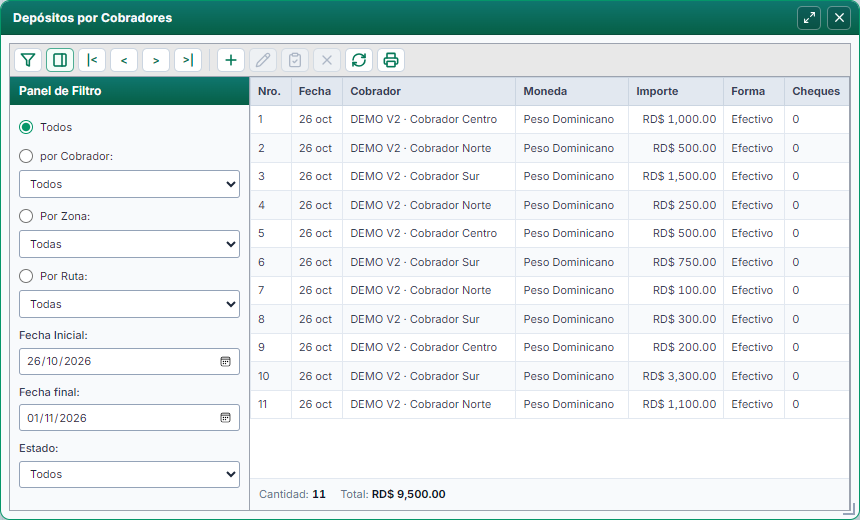
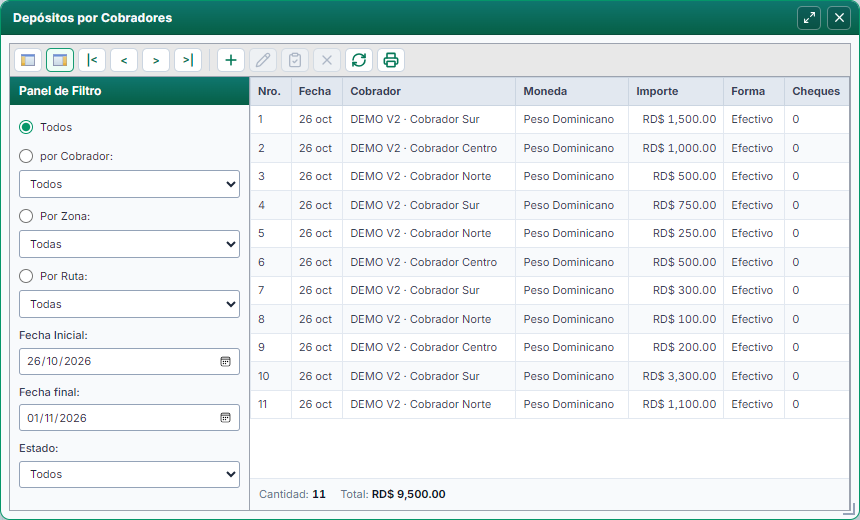
Iconos de Dionel para los paneles de las ventanas de listado
- «Mostrar/Ocultar filtros»: ventana con barra azul y panel amarillo a la izquierda (en lugar del embudo).
- «Mostrar/Ocultar detalles» de Depósitos: el mismo con el panel a la derecha.
- Redibujados como SVG (app/client-admin/src/PanelIcons.tsx); los originales son mapas de bits sobre el morado que el programa viejo usaba como transparente.
- Informe y capturas actualizados; prueba de la revisión ajustada.

diff --git a/app/client-admin/src/App.tsx b/app/client-admin/src/App.tsx
@@ -3,6 +3,7 @@ import { lazy, Suspense } from "react";
 const FinancialMonitorView = lazy(() => import("./FinancialMonitorView"));
 import { monitorLedger } from "./monitorLedger";
 import { MIN_NEW_PASSWORD_LENGTH } from "../../shared/passwordPolicy.mjs";
+import { DetailsPanelIcon, FiltersPanelIcon } from "./PanelIcons";
 import { CLIENT_PAGE_SIZE, NOT_DEFINED, NOT_DEFINED_ROUTE, type ClientPage, type ClientPageStatus } from "../../shared/clientPage.mjs";
 import {
   isValidElement,
@@ -44,7 +45,6 @@ import {
   Printer,
   FolderOpen,
   KeyRound,
-  Filter as Funnel,
   LayoutDashboard,
   ListFilter,
   LoaderCircle,
@@ -67,7 +67,6 @@ import {
   Users,
   Wallet,
   X,
-  PanelRight,
 } from "lucide-react";
 import { createPortal } from "react-dom";
 import { Toaster, toast } from "sonner";
@@ -906,9 +905,9 @@ function LegacyToolbar({ onToggleFilters, filtersVisible = true, onToggleDetails
   disableAccept ||= !access.canAccept;
   return (
     <div className="legacy-mdi-toolbar" aria-label="Barra de herramientas legacy" onMouseDown={stopToolbarEvent} onClick={stopToolbarEvent}>
-      {onToggleFilters && <button type="button" className={filtersVisible ? "nav-tool active" : "nav-tool"} title="Mostrar/Ocultar filtros" aria-label="Mostrar/Ocultar filtros" aria-pressed={filtersVisible} onClick={runToolbarAction(onToggleFilters)}><Funnel size={15} aria-hidden="true" /></button>}
+      {onToggleFilters && <button type="button" className={filtersVisible ? "nav-tool active" : "nav-tool"} title="Mostrar/Ocultar filtros" aria-label="Mostrar/Ocultar filtros" aria-pressed={filtersVisible} onClick={runToolbarAction(onToggleFilters)}><FiltersPanelIcon /></button>}
       {/* Windows with a details panel on the right hide it with its own button (Dionel, 26-10). */}
-      {onToggleDetails && <button type="button" className={detailsVisible ? "nav-tool active" : "nav-tool"} title="Mostrar/Ocultar detalles" aria-label="Mostrar/Ocultar detalles" aria-pressed={detailsVisible} onClick={runToolbarAction(onToggleDetails)}><PanelRight size={15} aria-hidden="true" /></button>}
+      {onToggleDetails && <button type="button" className={detailsVisible ? "nav-tool active" : "nav-tool"} title="Mostrar/Ocultar detalles" aria-label="Mostrar/Ocultar detalles" aria-pressed={detailsVisible} onClick={runToolbarAction(onToggleDetails)}><DetailsPanelIcon /></button>}
       <button type="button" className="nav-tool" title="Mover al inicio" onClick={runToolbarAction(onFirst)}>|&lt;</button>
       <button type="button" className="nav-tool" title="Subir" onClick={runToolbarAction(onPrevious)}>&lt;</button>
       <button type="button" className="nav-tool" title="Bajar" onClick={runToolbarAction(onNext)}>&gt;</button>
@@ -2271,7 +2270,7 @@ function SessionToolbar({ filtersVisible, selectedSession, onToggleFilters, onFi
   const action = (handler: () => void) => (event: ReactMouseEvent<HTMLButtonElement>) => { event.stopPropagation(); handler(); };
   return (
     <div className="legacy-mdi-toolbar session-toolbar" aria-label="Barra de herramientas de sesiones" onMouseDown={stopToolbarEvent} onClick={stopToolbarEvent}>
-      <button type="button" className={filtersVisible ? "nav-tool active" : "nav-tool"} title="Mostrar/Ocultar filtros" aria-label="Mostrar/Ocultar filtros" aria-pressed={filtersVisible} onClick={action(onToggleFilters)}><Funnel size={15} aria-hidden="true" /></button>
+      <button type="button" className={filtersVisible ? "nav-tool active" : "nav-tool"} title="Mostrar/Ocultar filtros" aria-label="Mostrar/Ocultar filtros" aria-pressed={filtersVisible} onClick={action(onToggleFilters)}><FiltersPanelIcon /></button>
       <button type="button" className="nav-tool" title="Mover al inicio" onClick={action(onFirst)}>|&lt;</button>
       <button type="button" className="nav-tool" title="Subir" onClick={action(onPrevious)}>&lt;</button>
       <button type="button" className="nav-tool" title="Bajar" onClick={action(onNext)}>&gt;</button>
@@ -2737,7 +2736,7 @@ function ClientToolbar({ filtersVisible, onToggleFilters, canGoBack, canGoForwar
   const action = (handler: () => void) => (event: ReactMouseEvent<HTMLButtonElement>) => { event.stopPropagation(); handler(); };
   return (
     <div className="legacy-mdi-toolbar clients-toolbar" aria-label="Barra de herramientas de clientes" onMouseDown={stopToolbarEvent} onClick={stopToolbarEvent}>
-      <button type="button" className={filtersVisible ? "nav-tool active" : "nav-tool"} title="Mostrar/Ocultar filtros" aria-label="Mostrar/Ocultar filtros" aria-pressed={filtersVisible} onClick={action(onToggleFilters)}><Funnel size={15} aria-hidden="true" /></button>
+      <button type="button" className={filtersVisible ? "nav-tool active" : "nav-tool"} title="Mostrar/Ocultar filtros" aria-label="Mostrar/Ocultar filtros" aria-pressed={filtersVisible} onClick={action(onToggleFilters)}><FiltersPanelIcon /></button>
       {/* The list arrives in pages: these buttons move between them. */}
       <button type="button" className="nav-tool" title="Primera página" aria-label="Primera página" disabled={!canGoBack} onClick={action(onFirst)}>|&lt;</button>
       <button type="button" className="nav-tool" title="Página anterior" aria-label="Página anterior" disabled={!canGoBack} onClick={action(onPrevious)}>&lt;</button>
@@ -2999,7 +2998,7 @@ function AuthorizationToolbar({ filtersVisible, onToggleFilters, onFirst, onPrev
   const action = (handler: () => void) => (event: ReactMouseEvent<HTMLButtonElement>) => { event.stopPropagation(); handler(); };
   return (
     <div className="legacy-mdi-toolbar authorization-toolbar" aria-label="Barra de herramientas de solicitudes" onMouseDown={stopToolbarEvent} onClick={stopToolbarEvent}>
-      <button type="button" className={filtersVisible ? "nav-tool active" : "nav-tool"} title="Mostrar/Ocultar filtros" aria-label="Mostrar/Ocultar filtros" aria-pressed={filtersVisible} onClick={action(onToggleFilters)}><Funnel size={15} aria-hidden="true" /></button>
+      <button type="button" className={filtersVisible ? "nav-tool active" : "nav-tool"} title="Mostrar/Ocultar filtros" aria-label="Mostrar/Ocultar filtros" aria-pressed={filtersVisible} onClick={action(onToggleFilters)}><FiltersPanelIcon /></button>
       <button type="button" className="nav-tool" title="Mover al inicio" onClick={action(onFirst)}>|&lt;</button>
       <button type="button" className="nav-tool" title="Subir" onClick={action(onPrevious)}>&lt;</button>
       <button type="button" className="nav-tool" title="Bajar" onClick={action(onNext)}>&gt;</button>
@@ -3524,7 +3523,7 @@ function TraceToolbar({ filtersVisible, onToggleFilters, onFirst, onPrevious, on
   const action = (handler: () => void) => (event: ReactMouseEvent<HTMLButtonElement>) => { event.stopPropagation(); handler(); };
   return (
     <div className="legacy-mdi-toolbar traces-toolbar" aria-label="Barra de herramientas de trazas" onMouseDown={stopToolbarEvent} onClick={stopToolbarEvent}>
-      <button type="button" className={filtersVisible ? "nav-tool active" : "nav-tool"} title="Mostrar/Ocultar filtros" aria-label="Mostrar/Ocultar filtros" aria-pressed={filtersVisible} onClick={action(onToggleFilters)}><Funnel size={15} aria-hidden="true" /></button>
+      <button type="button" className={filtersVisible ? "nav-tool active" : "nav-tool"} title="Mostrar/Ocultar filtros" aria-label="Mostrar/Ocultar filtros" aria-pressed={filtersVisible} onClick={action(onToggleFilters)}><FiltersPanelIcon /></button>
       <button type="button" className="nav-tool" title="Mover al inicio" onClick={action(onFirst)}>|&lt;</button>
       <button type="button" className="nav-tool" title="Subir" onClick={action(onPrevious)}>&lt;</button>
       <button type="button" className="nav-tool" title="Bajar" onClick={action(onNext)}>&gt;</button>
@@ -3960,7 +3959,7 @@ function PcpToolbar({ filtersVisible, selectedPcp, onToggleFilters, onFirst, onP
   const action = (handler: () => void) => (event: ReactMouseEvent<HTMLButtonElement>) => { event.stopPropagation(); handler(); };
   return (
     <div className="legacy-mdi-toolbar pcp-toolbar" aria-label="Barra de herramientas de PCP" onMouseDown={stopToolbarEvent} onClick={stopToolbarEvent}>
-      <button type="button" className={filtersVisible ? "nav-tool active" : "nav-tool"} title="Mostrar/Ocultar filtros" aria-label="Mostrar/Ocultar filtros" aria-pressed={filtersVisible} onClick={action(onToggleFilters)}><Funnel size={15} aria-hidden="true" /></button>
+      <button type="button" className={filtersVisible ? "nav-tool active" : "nav-tool"} title="Mostrar/Ocultar filtros" aria-label="Mostrar/Ocultar filtros" aria-pressed={filtersVisible} onClick={action(onToggleFilters)}><FiltersPanelIcon /></button>
       <button type="button" className="nav-tool" title="Mover al inicio" onClick={action(onFirst)}>|&lt;</button>
       <button type="button" className="nav-tool" title="Subir" onClick={action(onPrevious)}>&lt;</button>
       <button type="button" className="nav-tool" title="Bajar" onClick={action(onNext)}>&gt;</button>

diff --git a/app/client-admin/src/ConnectedAdminTools.tsx b/app/client-admin/src/ConnectedAdminTools.tsx
@@ -1,6 +1,7 @@
 import { PermissionAuditDetails } from "./PermissionAuditDetails";
 import { useCallback, useEffect, useId, useMemo, useRef, useState, type FormEvent, type ReactNode } from "react";
-import { Building2, FileCheck2, Filter as Funnel, RefreshCw } from "lucide-react";
+import { Building2, FileCheck2, RefreshCw } from "lucide-react";
+import { FiltersPanelIcon } from "./PanelIcons";
 import { LegacyCheck, LegacyDenseTable, LegacyDialog, LegacyToolbar, handleKeyboardActivation } from "./LegacyConnectedUi";
 import { clearToken } from "./api";
 import { remittancesApi } from "./remittancesApi";
@@ -273,7 +274,7 @@ export function ConnectedAdminTools({ page, snapshot, user, onRefresh }: { page:
   };
   const toolbar = page === "sessions" || page === "traces"
     ? <div className={"legacy-mdi-toolbar " + (page === "sessions" ? "session-toolbar" : "traces-toolbar")} aria-label="Barra de herramientas" onMouseDown={(event) => event.stopPropagation()} onClick={(event) => event.stopPropagation()}>
-      <button type="button" className={filtersVisible ? "nav-tool active" : "nav-tool"} title="Mostrar/Ocultar filtros" aria-label="Mostrar/Ocultar filtros" aria-pressed={filtersVisible} onClick={() => setFiltersVisible((current) => !current)}><Funnel size={15} aria-hidden="true" /></button>
+      <button type="button" className={filtersVisible ? "nav-tool active" : "nav-tool"} title="Mostrar/Ocultar filtros" aria-label="Mostrar/Ocultar filtros" aria-pressed={filtersVisible} onClick={() => setFiltersVisible((current) => !current)}><FiltersPanelIcon /></button>
       <button type="button" className="nav-tool" title="Primer registro" disabled={loading || !selected} onClick={() => moveSelection("first")}>|&lt;</button><button type="button" className="nav-tool" title="Registro anterior" disabled={loading || !selected} onClick={() => moveSelection("previous")}>&lt;</button><button type="button" className="nav-tool" title="Registro siguiente" disabled={loading || !selected} onClick={() => moveSelection("next")}>&gt;</button><button type="button" className="nav-tool" title="Último registro" disabled={loading || !selected} onClick={() => moveSelection("last")}>&gt;|</button>
       <span className="mdi-toolbar-separator" />
       {page === "sessions" && <button type="button" title={selected?.current ? "Cerrar mi sesión" : "Cerrar sesión"} disabled={loading || selected?.status !== "active" || !access.canDelete} onClick={() => selected && open({ type: "confirm", row: selected, action: "close" })}><FileCheck2 size={15} /><span>×</span></button>}

diff --git a/app/client-admin/test/revision-dionel-ui.test.ts b/app/client-admin/test/revision-dionel-ui.test.ts
@@ -90,7 +90,7 @@ test("Dionel's review (26-10): header, double click, funnel, paged Clientes, «N
       const frame = page.getByRole("dialog", { name: window, exact: true }); await frame.waitFor(); return frame;
     };
     const shot = (name: string) => page.screenshot({ path: path.join(output, `${name}.png`) });
-    const filterIcon = (frame: any) => frame.getByRole("button", { name: "Mostrar/Ocultar filtros", exact: true }).first().locator("svg").getAttribute("class");
+    const filterIcon = (frame: any) => frame.getByRole("button", { name: "Mostrar/Ocultar filtros", exact: true }).first().locator("svg").getAttribute("data-icon");
 
     await t.test("1.1 and 1.2: Facturas and Pagos together; no backup button", async () => {
       await reset();
@@ -184,15 +184,17 @@ test("Dionel's review (26-10): header, double click, funnel, paged Clientes, «N
       }
     });
 
-    await t.test("2.2: a funnel shows and hides the filters; Depósitos hides its details panel too", async () => {
+    await t.test("2.2: Dionel's panel icons show and hide the filters; Depósitos hides its details panel too", async () => {
       for (const [option, window] of [["Clientes", "Clientes"], ["Cargos", "Cargos"], ["Cobros", "Cobros"], ["Depósitos por Cobradores", "Depósitos por Cobradores"]]) {
         const frame = await openNav(option, window);
-        assert.match(String(await filterIcon(frame)), /lucide-filter/, option);
+        assert.equal(await filterIcon(frame), "panel-filtros", option);
+        assert.equal(await frame.locator(".lucide-filter").count(), 0, option);
         assert.equal(await frame.locator(".lucide-key-round").count(), 0, option);
       }
       const deposits = await openNav("Depósitos por Cobradores", "Depósitos por Cobradores");
       const details = deposits.getByRole("complementary", { name: "Panel de detalles", exact: true });
       await details.waitFor();
+      assert.equal(await deposits.getByRole("button", { name: "Mostrar/Ocultar detalles", exact: true }).locator("svg").getAttribute("data-icon"), "panel-detalles");
       await deposits.getByRole("button", { name: "Mostrar/Ocultar detalles", exact: true }).click();
       await details.waitFor({ state: "detached" });
       await deposits.getByRole("button", { name: "Mostrar/Ocultar filtros", exact: true }).click();

diff --git a/app/client-admin/src/PanelIcons.tsx b/app/client-admin/src/PanelIcons.tsx
@@ -1,0 +1,42 @@
+import { useId } from "react";
+
+// Dionel's icons for the panels of a listing window (sent 26-10-2026): a window with its blue title bar and a
+// yellow panel on the left (filters) or on the right (details). Drawn here as SVG so they stay sharp at any size;
+// the originals are 32×32 bitmaps on the magenta that the old program used as transparent.
+type PanelSide = "left" | "right";
+
+function ListingPanelIcon({ side, size = 16, name }: Readonly<{ side: PanelSide; size?: number; name: string }>) {
+  const id = useId().replace(/:/g, "");
+  const panelX = side === "left" ? 3 : 22;
+  const dividerX = side === "left" ? 10.5 : 21.5;
+  return (
+    <svg className={`cyp-panel-icon cyp-panel-icon-${name}`} data-icon={name} width={size} height={size} viewBox="0 0 32 32" aria-hidden="true" focusable="false">
+      <defs>
+        <linearGradient id={`${id}-body`} x1="0" y1="0" x2="0" y2="1">
+          <stop offset="0" stopColor="#f2f7fb" />
+          <stop offset="1" stopColor="#c6d6e3" />
+        </linearGradient>
+        <linearGradient id={`${id}-panel`} x1="0" y1="0" x2="0" y2="1">
+          <stop offset="0" stopColor="#f6d77c" />
+          <stop offset="1" stopColor="#e8ac2e" />
+        </linearGradient>
+      </defs>
+      <rect x="2.5" y="4.5" width="27" height="23" rx="2" fill={`url(#${id}-body)`} stroke="#4c4f7d" strokeWidth="1" />
+      <rect x="3" y="5" width="26" height="4" rx="1" fill="#5f86d1" />
+      <rect x="3" y="5" width="26" height="1.2" fill="#9db6ec" />
+      <rect x={panelX} y="9" width="7" height="18" fill={`url(#${id}-panel)`} />
+      {[11, 15, 19].map((y) => <rect key={y} x={panelX + 0.8} y={y} width="5.4" height="2" rx="0.5" fill="#fcecb8" stroke="#d9a73c" strokeWidth="0.5" />)}
+      <line x1={dividerX} y1="9" x2={dividerX} y2="27" stroke="#9aa6b5" strokeWidth="1" />
+    </svg>
+  );
+}
+
+/** «Mostrar/Ocultar filtros» of a listing window. */
+export function FiltersPanelIcon({ size }: Readonly<{ size?: number }>) {
+  return <ListingPanelIcon side="left" size={size} name="panel-filtros" />;
+}
+
+/** «Mostrar/Ocultar detalles» of a listing window. */
+export function DetailsPanelIcon({ size }: Readonly<{ size?: number }>) {
+  return <ListingPanelIcon side="right" size={size} name="panel-detalles" />;
+}

diff --git a/app/client-admin/src/RemittanceReportView.tsx b/app/client-admin/src/RemittanceReportView.tsx
@@ -1,5 +1,6 @@
 import { useEffect, useRef, useState, type FormEvent } from "react";
-import { Download, Filter as Funnel, Printer, RefreshCw } from "lucide-react";
+import { Download, Printer, RefreshCw } from "lucide-react";
+import { FiltersPanelIcon } from "./PanelIcons";
 import { currentOperationalWeek } from "../../shared/operationalWeek";
 import { exportSections, printSections } from "../../shared/remittances/output";
 import { commissionReportStatusLabels } from "../../shared/remittances/commissionOutput";
@@ -74,7 +75,7 @@ export function RemittanceReportView({ page, api, actorId }: { page: RemittanceR
   }
   return <div className="connected-report-mdi remittance-report-view" aria-label={definition.label}>
     <div className="legacy-mdi-toolbar" aria-label="Herramientas del reporte de remesas" onClick={(event) => event.stopPropagation()}>
-      <button type="button" className={filtersVisible ? "nav-tool active" : "nav-tool"} title="Mostrar/Ocultar filtros" aria-label="Mostrar/Ocultar filtros" aria-pressed={filtersVisible} onClick={() => setFiltersVisible((value) => !value)}><Funnel size={15} aria-hidden="true" /></button>
+      <button type="button" className={filtersVisible ? "nav-tool active" : "nav-tool"} title="Mostrar/Ocultar filtros" aria-label="Mostrar/Ocultar filtros" aria-pressed={filtersVisible} onClick={() => setFiltersVisible((value) => !value)}><FiltersPanelIcon /></button>
       {([["first", "Primer registro", "|<"], ["previous", "Registro anterior", "<"], ["next", "Registro siguiente", ">"], ["last", "Último registro", ">|"]] as const).map(([direction, label, text]) => <button type="button" key={direction} className="nav-tool" title={label} aria-label={label} disabled={!selectionKeys.length} onClick={() => moveSelection(direction)}>{text}</button>)}
       <span className="mdi-toolbar-separator" />
       <button type="button" aria-label="Refrescar" title="Refrescar" disabled={busy || !metadata} onClick={() => void consult()}><RefreshCw size={15} /></button>

diff --git a/app/client-admin/src/LegacyConnectedUi.tsx b/app/client-admin/src/LegacyConnectedUi.tsx
@@ -1,6 +1,7 @@
 import { isValidElement, useEffect, useRef, useState, type ReactNode, type MouseEvent as ReactMouseEvent, type KeyboardEvent as ReactKeyboardEvent } from "react";
 import { createPortal } from "react-dom";
-import { ClipboardCheck, Eye, Filter as Funnel, Pencil, Plus, Printer, RefreshCw, Trash2, X } from "lucide-react";
+import { ClipboardCheck, Eye, Pencil, Plus, Printer, RefreshCw, Trash2, X } from "lucide-react";
+import { FiltersPanelIcon } from "./PanelIcons";
 import { usePageAccess } from "./PageAccess";
 
 // Original MDI presentation shared by the connected screens.
@@ -42,7 +43,7 @@ export function LegacyToolbar({ onToggleFilters, filtersVisible = true, onFirst,
   const consult = consultOnEdit && !access.canEdit;
   return (
     <div className="legacy-mdi-toolbar" aria-label="Barra de herramientas legacy" onMouseDown={stopToolbarEvent} onClick={stopToolbarEvent}>
-      {onToggleFilters && <button type="button" className={filtersVisible ? "nav-tool active" : "nav-tool"} title="Mostrar/Ocultar filtros" aria-label="Mostrar/Ocultar filtros" aria-pressed={filtersVisible} onClick={runToolbarAction(onToggleFilters)}><Funnel size={15} aria-hidden="true" /></button>}
+      {onToggleFilters && <button type="button" className={filtersVisible ? "nav-tool active" : "nav-tool"} title="Mostrar/Ocultar filtros" aria-label="Mostrar/Ocultar filtros" aria-pressed={filtersVisible} onClick={runToolbarAction(onToggleFilters)}><FiltersPanelIcon /></button>}
       <button type="button" className="nav-tool" title="Primer registro" onClick={runToolbarAction(onFirst)}>|&lt;</button>
       <button type="button" className="nav-tool" title="Registro anterior" onClick={runToolbarAction(onPrevious)}>&lt;</button>
       <button type="button" className="nav-tool" title="Registro siguiente" onClick={runToolbarAction(onNext)}>&gt;</button>

diff --git a/app/client-admin/src/ConnectedSettlements.tsx b/app/client-admin/src/ConnectedSettlements.tsx
@@ -1,5 +1,6 @@
 import { useEffect, useRef, useState } from "react";
-import { Database, Download, FileSearch, Filter as Funnel, Plus, Printer, RefreshCw } from "lucide-react";
+import { Database, Download, FileSearch, Plus, Printer, RefreshCw } from "lucide-react";
+import { FiltersPanelIcon } from "./PanelIcons";
 import { LegacyDialog, handleKeyboardActivation } from "./LegacyConnectedUi";
 import { remittancesApi } from "./remittancesApi";
 import { SettlementCashDialog } from "./SettlementCashDialog";
@@ -159,7 +160,7 @@ export function ConnectedSettlements({ snapshot, actorId = "", canManage = false
 
   return <div className="daily-settlements-mdi connected-settlements-mdi">
     <div className="legacy-mdi-toolbar" aria-label="Herramientas de cuadres diarios">
-      <button type="button" className={filtersVisible ? "nav-tool active" : "nav-tool"} title="Mostrar/Ocultar filtros" aria-label="Mostrar/Ocultar filtros" aria-pressed={filtersVisible} onClick={() => setFiltersVisible((visible) => !visible)}><Funnel size={15} aria-hidden="true" /></button>
+      <button type="button" className={filtersVisible ? "nav-tool active" : "nav-tool"} title="Mostrar/Ocultar filtros" aria-label="Mostrar/Ocultar filtros" aria-pressed={filtersVisible} onClick={() => setFiltersVisible((visible) => !visible)}><FiltersPanelIcon /></button>
       <button type="button" className="nav-tool" title="Primer cuadre" disabled={!rows.length} onClick={() => moveSelection("first")}>|&lt;</button>
       <button type="button" className="nav-tool" title="Cuadre anterior" disabled={!rows.length} onClick={() => moveSelection("previous")}>&lt;</button>
       <button type="button" className="nav-tool" title="Cuadre siguiente" disabled={!rows.length} onClick={() => moveSelection("next")}>&gt;</button>

diff --git a/app/client-admin/src/ConnectedLegacyReports.tsx b/app/client-admin/src/ConnectedLegacyReports.tsx
@@ -1,5 +1,6 @@
 import { useEffect, useRef, useState } from "react";
-import { Download, Filter as Funnel, Printer, RefreshCw } from "lucide-react";
+import { Download, Printer, RefreshCw } from "lucide-react";
+import { FiltersPanelIcon } from "./PanelIcons";
 import { exportSections, formatMoney, printSections, type OutputSection } from "../../shared/remittances/output";
 import { LegacyDialog } from "./LegacyConnectedUi";
 import type { Snapshot } from "./types";
@@ -96,7 +97,7 @@ export function ConnectedLegacyReports({ page, title, snapshot, onRefresh }: { p
   };
   return <div className="connected-report-mdi">
     <div className="legacy-mdi-toolbar" aria-label="Herramientas del reporte">
-      <button type="button" className={filtersVisible ? "nav-tool active" : "nav-tool"} title="Mostrar/Ocultar filtros" aria-label="Mostrar/Ocultar filtros" aria-pressed={filtersVisible} onClick={() => setFiltersVisible((visible) => !visible)}><Funnel size={15} aria-hidden="true" /></button>
+      <button type="button" className={filtersVisible ? "nav-tool active" : "nav-tool"} title="Mostrar/Ocultar filtros" aria-label="Mostrar/Ocultar filtros" aria-pressed={filtersVisible} onClick={() => setFiltersVisible((visible) => !visible)}><FiltersPanelIcon /></button>
       <button type="button" className="nav-tool" title="Primer registro" disabled={!selectionKeys.length} onClick={() => moveSelection("first")}>|&lt;</button>
       <button type="button" className="nav-tool" title="Registro anterior" disabled={!selectionKeys.length} onClick={() => moveSelection("previous")}>&lt;</button>
       <button type="button" className="nav-tool" title="Registro siguiente" disabled={!selectionKeys.length} onClick={() => moveSelection("next")}>&gt;</button>

diff --git a/docs/REVISION-DIONEL-2026-10-26.md b/docs/REVISION-DIONEL-2026-10-26.md
@@ -14,7 +14,7 @@ en las versiones publicadas el 23-10 (`11fd8c9`) y el 26-10 (`cc9d6c5` y `2ee7b0
 | 1.1 | Botones por temática; Facturas y Pagos juntos | La cabecera queda: Notificaciones · **Facturas** · **Pagos** · Qué hay de nuevo · Tema. En el teléfono y la tableta (menos de 1000 px) esos botones ya estaban ocultos y siguen así | `App.tsx`, cabecera | `1-cabecera.png` |
 | 1.2 | El respaldo no va en la interfaz | Se quitó el botón «Hacer copia de respaldo» y su función. El respaldo de la base lo hace el hosting. Mostrar la fecha de los respaldos queda para después | `App.tsx` | `1-cabecera.png` |
 | 2.1 | Doble clic en un listado abre la edición | Doble clic o **Intro** hacen la acción por defecto; la barra espaciadora solo selecciona. **Editar:** Clientes, Cargos y Descargos (sin permiso de modificar, Clientes abre la ficha en consulta y Cargos/Descargos lo avisan). **Ver el recibo:** Cobros, Depósitos por Cobradores (comprobante) y Pagos. Los que ya lo tenían siguen igual | `App.tsx`: `ClientsLegacyView`, `ChargesOperationalView`, `PayoutsOperationalView`, cobros de `LegacyOperationView`, `DepositsOperationalView`, `PaymentsOperationalView` | `2.1-clientes.png`, `2.1-cargos.png`, `2.1-cobros.png`, `2.1-depositos.png`, `2.1-descargos.png`, `2.1-pagos.png` |
-| 2.2 | Icono de filtros: embudo, no llave; ocultar uno o los dos paneles | El botón «Mostrar/Ocultar filtros» usa un embudo en todas las ventanas que lo tienen (los 11 sitios del código); la llave queda solo para claves. Depósitos por Cobradores, la única ventana con panel de detalle a la derecha, tiene su propio botón «Mostrar/Ocultar detalles». El icono que dibuje Dionel se pone cuando lo mande | `App.tsx`, `ConnectedAdminTools.tsx`, `ConnectedLegacyReports.tsx`, `ConnectedSettlements.tsx`, `LegacyConnectedUi.tsx`, `RemittanceReportView.tsx` | `2.2-icono-filtros.png`, `2.2-depositos-sin-detalles.png` |
+| 2.2 | Icono de filtros: no llave; ocultar uno o los dos paneles | Primero (PR #61) un embudo; el 26-10 Dionel mandó sus iconos y ya son los de la app: en las ventanas de listado (las de la barra azul arriba), una ventana con el panel amarillo a la izquierda para «Mostrar/Ocultar filtros» y a la derecha para «Mostrar/Ocultar detalles». Se redibujaron como SVG con el mismo diseño (los originales son mapas de bits de 32×32 sobre el morado que el programa viejo usaba como transparente). Están en todos los botones de filtros (11 sitios del código) y en el de detalles de Depósitos por Cobradores, la única ventana con panel de detalle a la derecha. La llave queda solo para claves | `app/client-admin/src/PanelIcons.tsx`; botones en `App.tsx`, `ConnectedAdminTools.tsx`, `ConnectedLegacyReports.tsx`, `ConnectedSettlements.tsx`, `LegacyConnectedUi.tsx`, `RemittanceReportView.tsx` | `2.2-iconos-de-dionel.png`, `2.2-iconos-en-la-barra.png`, `2.2-icono-filtros.png`, `2.2-depositos-sin-detalles.png` |
 | 2.3 | Clientes no debe cargar todos los registros | La ventana pide al servidor solo una página de 50 con sus filtros (búsqueda, identificación, nombre, zona, ruta y estado); «Todos» también va por páginas. Los botones `|<` `<` `>` `>|` ahora son Primera, Anterior, Siguiente y Última página, y el pie dice «Página X de Y». Al guardar un cliente se muestra la página donde quedó | Servidor: `GET /api/clientes/pagina` (`app/server/src/app.ts`); filtro común en `app/shared/clientPage.mjs`; ventana en `App.tsx` | `2.3-clientes.png` (la demo tiene 44 clientes: una página) |
 | 2.4 | Ruta «No Definida» como la Zona, en listados y reportes | Clientes: Ruta tiene «No Definida» (clientes sin ruta). Reportes: Ruta y Zona ofrecen «Todas», «No Definida» y la lista, en todos los reportes que tienen esos filtros | `App.tsx` (Clientes y reportes de cargos/cobros), `ConnectedLegacyReports.tsx` (reportes de pagos y servicios) | `2.4-reporte-rutas.png`, `2.4-reporte-zonas.png`, `2.4-reporte-pagos-rutas.png` |
 | 3.1.1 | Quitar «Gestor: … Reparto automático…» | Quitado. El reparto del gestor queda como ayuda al pasar el puntero sobre «Comisión (%)», solo para quien puede ver comisiones | `app/shared/remittances/RemittancesWorkspace.tsx` | `3.1-envios-de-dinero.png` |
@@ -40,7 +40,8 @@ Pasar esas pantallas a búsquedas del servidor es otro cambio, más grande, que 
   dos; en los reportes sí encuentra filas cuando un movimiento no tiene ruta o zona.
 - **Otros listados** (Cargos, Cobros, Depósitos, Descargos, Pagos) mantienen sus filtros de Zona y Ruta con «Todas»
   y la lista; esta revisión pidió «No Definida» en Clientes y en los reportes.
-- Pendiente de Dionel: su icono propio para los paneles y la fecha de los respaldos.
+- Iconos de Dionel para ventanas que no son de listado (sin barra azul) y para las de edición con teclado numérico visible: guardados como referencia en `2.2-iconos-de-dionel.png`; hoy ninguna de esas ventanas tiene paneles que ocultar.
+- Pendiente de Dionel: la fecha de los respaldos.
 
 ## Pruebas
 
